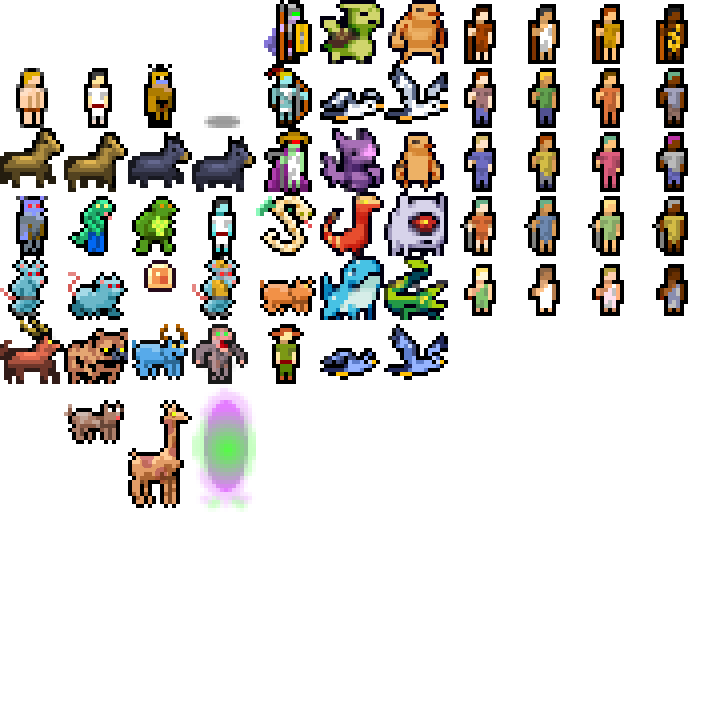
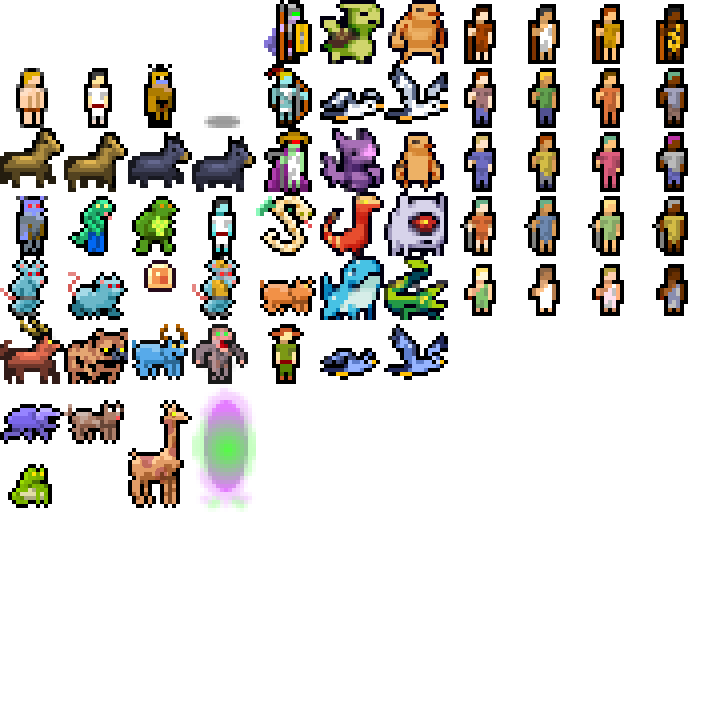
beetle and frog

Changed region(s): [[0.0, 0.5625, 0.0938, 0.625], [0.0, 0.6562, 0.0938, 0.7188]]

diff --git a/src/main/kotlin/ui/panels/Console.kt b/src/main/kotlin/ui/panels/Console.kt
@@ -1,5 +1,8 @@
 package ui.panels
 
+import actors.actors.Beetle
+import actors.actors.Frog
+import actors.actors.Peeper
 import actors.actors.Player
 import com.badlogic.gdx.Input
 import com.badlogic.gdx.graphics.Color
@@ -332,6 +335,7 @@ object Console : Panel() {
             "weather" -> { debugWeather(words) }
             "get" -> { debugGet(words) }
             "xp" -> { debugXP(words) }
+            "spawn" -> { debugSpawn(words) }
             else -> say("I don't understand that.")
         }
     }
@@ -361,7 +365,7 @@ object Console : Panel() {
 
     private fun debugGet(words: List<String>) {
         if (words.size <= 1) {
-            say("Usage: GET <item name>")
+            say("Usage: GET <item name> or GET <number> <item name>")
             return
         }
         var amount = words[1].toIntOrNull() ?: 0
@@ -377,6 +381,20 @@ object Console : Panel() {
         } ?: run {
             say("I don't know about anything called '${words[1]}'.")
         }
+    }
+
+    private fun debugSpawn(words: List<String>) {
+        if (words.size <= 1) {
+            say("Usage: SPAWN <npc name>")
+            return
+        }
+        val npcName = words.drop(1).joinToString(" ")
+        val npc = when (npcName) {
+            "beetle" -> Beetle()
+            "frog" -> Frog()
+            else -> Peeper()
+        }
+        npc.spawnAt(App.player.level!!, App.player.xy.x + 1, App.player.xy.y)
     }
 
     private fun spawnThings(amount: Int, tag: Thing.Tag) {

diff --git a/src/main/kotlin/actors/actors/Beetle.kt b/src/main/kotlin/actors/actors/Beetle.kt
@@ -1,4 +1,27 @@
 package actors.actors
 
-class Beetle {
+import actors.animations.Slide
+import actors.states.IdleWander
+import render.tilesets.Glyph
+import things.Clothing
+import util.XY
+
+class Beetle : NPC() {
+
+    override fun glyph() = Glyph.BEETLE
+    override fun shadowWidth() = 1.5f
+    override fun shadowXOffset() = 0.2f
+    override fun stepAnimation(dir: XY) = Slide(dir)
+    override fun name() = "pincer beetle"
+    override fun description() = "A huge shiny purple beetle, with large pinching jaws."
+    override fun onSpawn() {
+        hpMax = 6f
+        initStats(9, 9, 3, 8, 6, 1, 0)
+    }
+
+    override fun skinArmorMaterial() = Clothing.Material.SHELL
+    override fun skinArmor() = 1f
+
+    override fun visualRange() = 8f
+    override fun idleState() = IdleWander(0.4f)
 }

diff --git a/src/main/kotlin/actors/actors/Frog.kt b/src/main/kotlin/actors/actors/Frog.kt
@@ -1,4 +1,27 @@
 package actors.actors
 
-class Frog {
+import actors.animations.Jump
+import actors.states.IdleWander
+import render.tilesets.Glyph
+import things.Clothing
+import util.XY
+
+class Frog : NPC() {
+
+    override fun glyph() = Glyph.FROG
+    override fun shadowWidth() = 1.2f
+    override fun shadowXOffset() = 0.1f
+    override fun stepAnimation(dir: XY) = Jump(dir)
+    override fun name() = "frog"
+    override fun description() = "A big slimy frog."
+    override fun onSpawn() {
+        hpMax = 6f
+        initStats(9, 9, 4, 8, 6, 1, 0)
+    }
+
+    override fun skinArmorMaterial() = Clothing.Material.HIDE
+    override fun skinArmor() = 1f
+
+    override fun visualRange() = 8f
+    override fun idleState() = IdleWander(0.4f)
 }

diff --git a/src/main/kotlin/actors/animations/Jump.kt b/src/main/kotlin/actors/animations/Jump.kt
@@ -1,4 +1,19 @@
 package actors.animations
 
-class Jump {
+import ui.input.Keyboard
+import util.XY
+
+class Jump(
+    val dir: XY
+) : Animation(Keyboard.REPEAT_MS) {
+
+    val height = 0.7f
+    override fun shadowOffsetX() = (-1f + progress()) * dir.x
+    override fun shadowOffsetY() = (-1f + progress()) * dir.y
+    override fun offsetX() = shadowOffsetX()
+    override fun offsetY(): Float {
+        val p = progress()
+        return shadowOffsetY() - (if (p < 0.5f) p * height else (1f - p) * height)
+    }
+
 }

diff --git a/src/main/kotlin/render/tilesets/MobTileSet.kt b/src/main/kotlin/render/tilesets/MobTileSet.kt
@@ -68,4 +68,6 @@ fun ActorTileSet() =
         setTile(Glyph.DOG, SimpleTile(this, 1, 6))
         setTile(Glyph.JERIF, SimpleTile(this, 2, 6))
         setTile(Glyph.MAGIC_PORTAL, SimpleTile(this, 3, 6))
+        setTile(Glyph.BEETLE, SimpleTile(this, 0, 6))
+        setTile(Glyph.FROG, SimpleTile(this, 0, 7))
     }

diff --git a/src/main/kotlin/render/tilesets/Glyph.kt b/src/main/kotlin/render/tilesets/Glyph.kt
@@ -139,6 +139,8 @@ enum class Glyph(val tall: Boolean = false) {
     DOG,
     JERIF(tall = true),
     MAGIC_PORTAL(tall = true),
+    FROG,
+    BEETLE,
 
     OAK_TREE,
     MAPLE_TREE,
